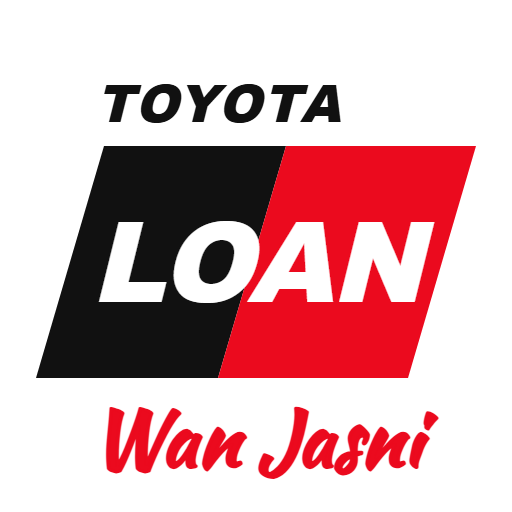
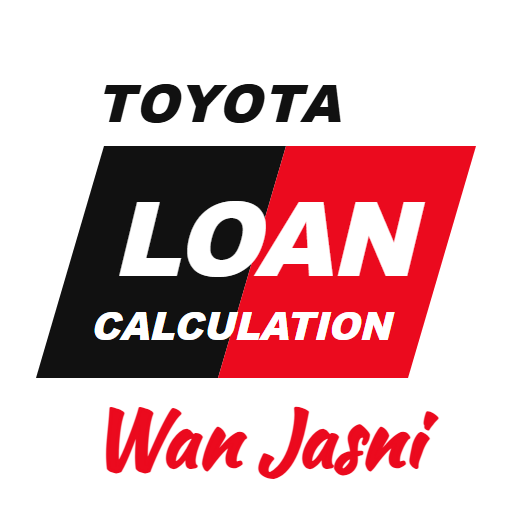
Ikon & nama pendek: Toyota Loan Calculation

Changed region(s): [[0.1875, 0.375, 0.8438, 0.6875]]

diff --git a/assets/icon-src.html b/assets/icon-src.html
@@ -15,7 +15,8 @@
   <!-- lencana serong: hitam | merah -->
   <polygon points="36,378 104,146 286,146 218,378" fill="#111"/>
   <polygon points="218,378 286,146 476,146 408,378" fill="#eb0a1e"/>
-  <text x="256" y="302" text-anchor="middle" font-family="Arial Black, Arial, sans-serif" font-weight="900" font-style="italic" font-size="112" fill="#fff" letter-spacing="-2" textLength="330" lengthAdjust="spacingAndGlyphs">LOAN</text>
+  <text x="262" y="276" text-anchor="middle" font-family="Arial Black, Arial, sans-serif" font-weight="900" font-style="italic" font-size="104" fill="#fff" letter-spacing="-2" textLength="300" lengthAdjust="spacingAndGlyphs">LOAN</text>
+  <text x="240" y="340" text-anchor="middle" font-family="Arial Black, Arial, sans-serif" font-weight="900" font-style="italic" font-size="38" fill="#fff" textLength="300" lengthAdjust="spacingAndGlyphs">CALCULATION</text>
   <!-- WAN JASNI -->
   <!-- Fon berus: Monster Clubhouse jika fail ada dalam assets/fonts/, jika tidak Kaushan Script (Google Fonts) -->
   <text x="256" y="466" text-anchor="middle" font-family="'Monster Clubhouse', 'Kaushan Script', cursive" font-size="78" fill="#eb0a1e" stroke="#eb0a1e" stroke-width="3" stroke-linejoin="round">Wan Jasni</text>

diff --git a/index.html b/index.html
@@ -5,9 +5,9 @@
 <meta name="viewport" content="width=device-width, initial-scale=1, viewport-fit=cover">
 <title>Toyota Loan Calculator</title>
 <meta name="theme-color" content="#0b1b3a">
-<link rel="manifest" href="manifest.json?v=5">
-<link rel="icon" type="image/png" href="assets/icon-192.png?v=5">
-<link rel="apple-touch-icon" href="assets/icon-192.png?v=5">
+<link rel="manifest" href="manifest.json?v=6">
+<link rel="icon" type="image/png" href="assets/icon-192.png?v=6">
+<link rel="apple-touch-icon" href="assets/icon-192.png?v=6">
 <link rel="preconnect" href="https://fonts.googleapis.com">
 <link href="https://fonts.googleapis.com/css2?family=Plus+Jakarta+Sans:wght@400;600;700;800&display=swap" rel="stylesheet">
 <link rel="stylesheet" href="style.css?v=13">
